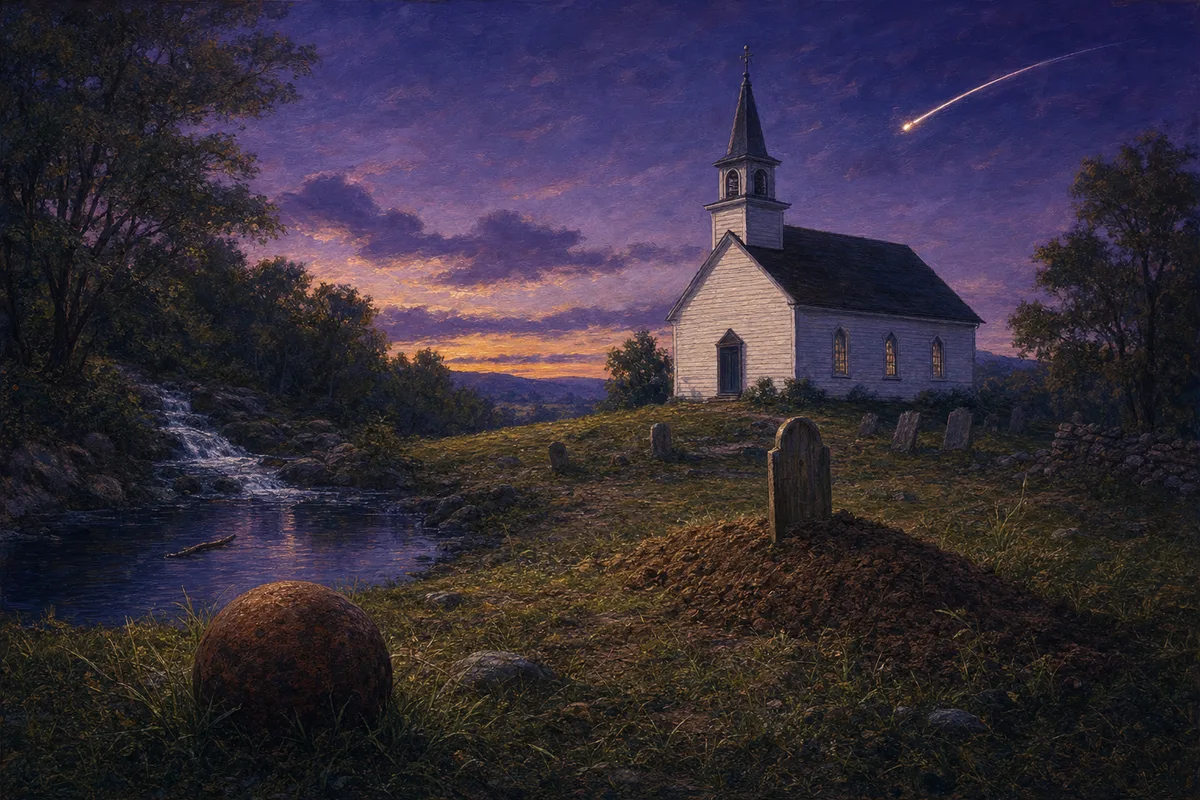
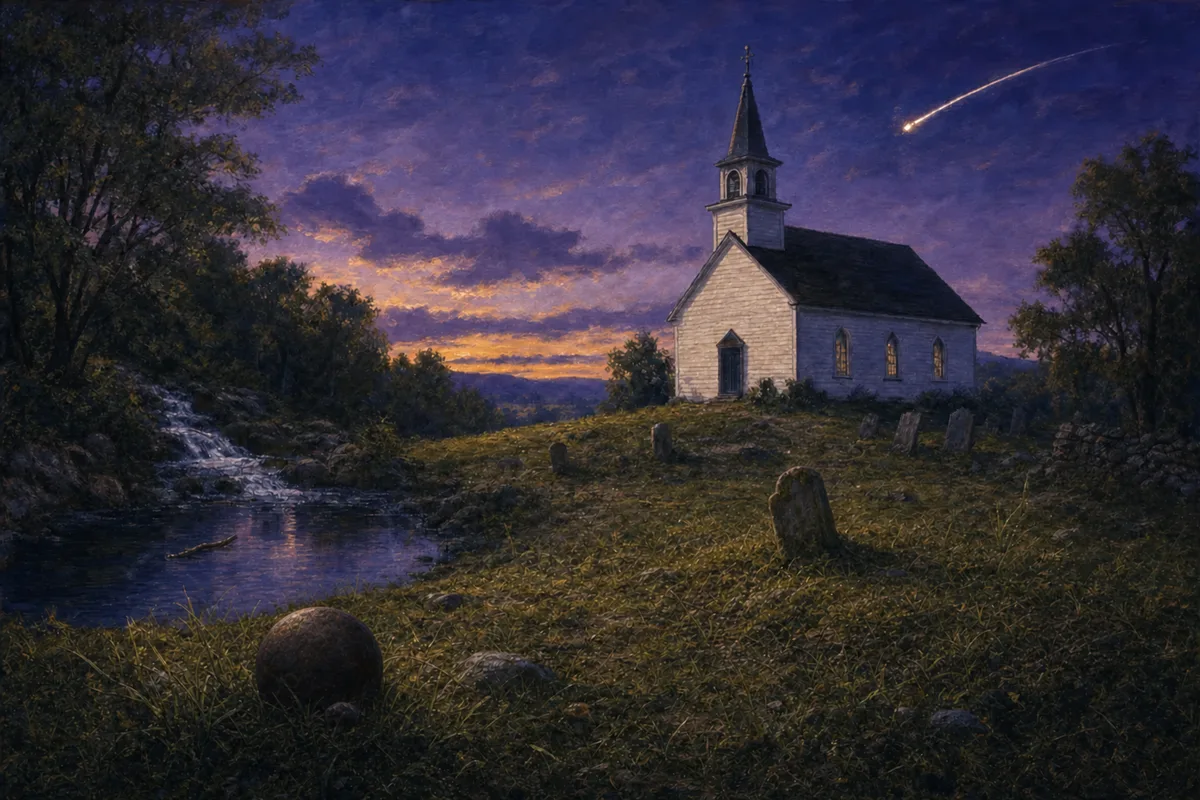
Rooms 1 and 2: review fixes to the code locks, the churchyard and the schoolhouse art
From the teacher's review (2026-11-13):
- Code locks: every dial question rewritten so it shares no content word with its line and needs a step of
  reasoning (e.g. "Which word tells how noisy the shot seemed to the young hunter?"). validate:worlds now rejects a
  dial question that shares a content word or root with its line. The beehive model became "From outside, what busy
  insect home does the classroom resemble?" (its line also holds "sound" and "like").
- Churchyard scene: the still pool (a simile for the villages) is replaced by the church itself, matched to "His
  haunts... especially to the vicinity of a church". Scene objects must be literal things in the story; the
  validator rejects a line that is itself a comparison, and the review doc says so beside every scene.
- The grave is old and sunken with a weathered stone ("An old sunken grave with a weathered stone"); the
  cannonball is a realistic size.
- Schoolhouse art: the windows are partly patched with copybook pages, so the painting has exactly 2 mistakes.
The tests now check the rules against Room 1 as it is in world.json.

diff --git a/tests/escape-room.test.ts b/tests/escape-room.test.ts
@@ -20,31 +20,8 @@ const shp = parseSourcePassages(src("public/worlds/sleepy-hollow/source.md"));
 const e1 = sh.expeditions![0], chunks = expeditionChunks(sh, shp, e1.id), iv = e1.interview!;
 
 // The Expedition 1 puzzles from the approved plan (content for review arrives in phase 2; here they test the rules).
-const E1_ROOM: RoomData = {
-  expedition: e1.id,
-  door: "The Glen. A spell holds everyone who stays here. Prove what the story says, and the way out opens.",
-  puzzles: [
-    { type: "painting", id: "glen-at-noon", after: 3, title: "The glen at noon", alt: "A painting of a quiet valley among hills", wrong: 2, details: [
-      { id: "walnut", label: "Tall walnut trees shade one side", x: 20, y: 40, lines: [{ p: "p004", s: 0 }] },
-      { id: "woodpecker", label: "A woodpecker on a branch", x: 30, y: 30, lines: [{ p: "p003", s: 4 }] },
-      { id: "hills", label: "High hills all around", x: 50, y: 10, lines: [{ p: "p003", s: 3 }] },
-      { id: "waterfall", label: "A roaring waterfall", x: 70, y: 50, wrong: true, lines: [{ p: "p003", s: 4 }] },
-      { id: "market", label: "A busy market road through the valley", x: 60, y: 80, wrong: true, lines: [{ p: "p003", s: 3 }] },
-    ] },
-    { type: "code", id: "glen-gate", after: 5, title: "The gate out of the glen", dials: [
-      { question: "Who named the town?", line: { p: "p003", s: 1 }, word: "housewives" },
-      { question: "How many miles away is the valley?", line: { p: "p003", s: 3 }, word: "two" },
-      { question: "What sound startled him?", line: { p: "p004", s: 1 }, word: "roar" },
-      { question: "What does the witching power hold over people's minds?", line: { p: "p005", s: 3 }, word: "spell" },
-    ] },
-    { type: "scene", id: "churchyard-at-dusk", after: 10, title: "The churchyard at dusk", alt: "A churchyard at dusk beside a stream", objects: [
-      { id: "shot", label: "A rusted iron shot half-buried in the grass", x: 30, y: 80, line: { p: "p006", s: 1 } },
-      { id: "grave", label: "A fresh grave beside the steeple", x: 55, y: 60, line: { p: "p006", s: 3 } },
-      { id: "streak", label: "A streak of light across the night sky", x: 70, y: 10, line: { p: "p005", s: 5 } },
-      { id: "pool", label: "A glassy pool beside a fast creek, a twig drifting in it", x: 15, y: 50, line: { p: "p009", s: 1 } },
-    ], near_misses: [{ p: "p005", s: 1 }, { p: "p006", s: 2 }] },
-  ],
-};
+// Room 1 as revised in review (world.json rooms): the tests check the rules against the real puzzles.
+const E1_ROOM: RoomData = structuredClone(sh.rooms!.find((r) => r.expedition === e1.id)!);
 const withRoom = (room: RoomData, base: WorldPack = sh): WorldPack => ({ ...base, rooms: [room] });
 const world = withRoom(E1_ROOM);
 const puzzle = <T extends "code" | "painting" | "scene">(type: T) => E1_ROOM.puzzles!.find((p) => p.type === type) as Extract<NonNullable<RoomData["puzzles"]>[number], { type: T }>;
@@ -195,6 +172,9 @@ test("validate:worlds: the plan's E1 puzzles pass, and every puzzle rule catches
   assert.match(probs((r) => { (r.puzzles![2] as { objects: { label: string }[] }).objects[0].label = "A rusted cannon-ball in the grass"; }), /shares words with its line/, "the label alone must not give the line away");
   assert.match(probs((r) => { (r.puzzles![2] as { near_misses: { p: string; s: number }[] }).near_misses[0] = { p: "p006", s: 1 }; }), /different sentence/);
   assert.match(probs((r) => { r.door = "The Glen — a spell"; }), /no em dashes/);
+  // Review rules (2026-11-13): a dial question shares no content word with its line; scene objects are literal things.
+  assert.match(probs((r) => { (r.puzzles![1] as { dials: { question: string }[] }).dials[2].question = "What sound startled him?"; }), /dial 3's question shares words with its line/);
+  assert.match(probs((r) => { const sc = r.puzzles![2] as { objects: { label: string; line: { p: string; s: number } }[] }; sc.objects[3] = { ...sc.objects[3], label: "A glassy pool beside a fast creek", line: { p: "p009", s: 1 } }; }), /line is a comparison/, "the nooks of still water are a simile for the villages");
   assert.match(roomProblems({ ...sh, rooms: [{ expedition: "nowhere" }] }, shp).join("\n"), /no expedition/);
 });
 

diff --git a/lib/escape-room.ts b/lib/escape-room.ts
@@ -250,6 +250,9 @@ export function sceneResult(p: Extract<RoomPuzzle, { type: "scene" }>, matches: 
 }
 
 // ---------- Validation (validate:worlds) ----------
+// A sentence whose main statement is a comparison: it opens with "like" or "as if", or says something "is like" or
+// "are like" something else.
+export const isComparison = (line: string) => /^\W*(like|as if|as though)\b/i.test(line) || /^\W*(they|it|he|she|this|these|those|such)\s+(is|are|was|were|seems?|seemed)\s+(like|as if|as though)\b/i.test(line);
 // Rooms name real expeditions, once each. Every puzzle line is a real sentence the student has already read in this
 // room (chunks 1 to `after`), never in a content-noted paragraph or a sentence the story excludes from puzzles.
 // Code lock: the code spells no word in the story, the answer word appears once in its line, and the line holds another
@@ -291,6 +294,10 @@ export function roomProblems(world: WorldPack, passages: SourcePassage[]): strin
           const hits = keys.filter((x) => x === w).length;
           if (hits !== 1) out.push(`${pat}: dial ${k + 1}'s word "${d.word}" appears ${hits} times in its line (exactly once)`);
           if (!keys.some((x) => x !== w && x.charAt(0) === w.charAt(0))) out.push(`${pat}: dial ${k + 1}'s line has no other word starting with "${w.charAt(0)}", so the letter alone could find it`);
+          // The question shares no content word or root with its line (names excepted): a dial needs a step of
+          // reasoning, never word-matching ("Which word tells how noisy the shot seemed?", not "What sound startled him?").
+          const sharedQ = sharedRoots(d.question, [text], names);
+          if (sharedQ.length) out.push(`${pat}: dial ${k + 1}'s question shares words with its line (${sharedQ.join(", ")}); ask it so the student has to reason, not match words`);
         });
       } else if (p.type === "painting") {
         const wrong = p.details.filter((d) => d.wrong).length;
@@ -306,6 +313,10 @@ export function roomProblems(world: WorldPack, passages: SourcePassage[]): strin
           const text = check(o.line, `object ${o.id}`); if (!text) continue;
           const shared = sharedRoots(o.label, [text], names);
           if (shared.length) out.push(`${pat}: object ${o.id}'s label shares words with its line (${shared.join(", ")}); describe what it looks like instead`);
+          // Scene objects must be literal things in the story, never taken from a simile or metaphor. The check below
+          // catches a line that is itself a comparison ("They are like those little nooks..."); a reviewer confirms the
+          // rest (the review doc says so beside every scene).
+          if (isComparison(text)) out.push(`${pat}: object ${o.id}'s line is a comparison, not a real thing in the story; use a literal object`);
         }
         p.near_misses.forEach((l, k) => check(l, `near miss ${k + 1}`));
       }

diff --git a/scripts/room-review.ts b/scripts/room-review.ts
@@ -31,7 +31,7 @@ for (const id of ["sleepy-hollow", "tell-tale-heart", "trifles"]) {
         out.push(`Picture: \`${p.art ?? "sketch until approved"}\` (${p.alt}). ${p.wrong} details are wrong (✗); each is disproved by its line. The right ones (✓) are confirmed by theirs.`, "");
         p.details.forEach((d, k) => out.push(`${k + 1}. ${d.wrong ? "✗" : "✓"} ${d.label} · ${d.lines.map(quote).join(" / ")}`));
       } else {
-        out.push(`Picture: \`${p.art ?? "sketch until approved"}\` (${p.alt}). Each object matches one line; the tray adds near misses.`, "");
+        out.push(`Picture: \`${p.art ?? "sketch until approved"}\` (${p.alt}). Each object matches one line; the tray adds near misses. Every object is a literal thing in the story, never taken from a simile or metaphor.`, "");
         p.objects.forEach((o, k) => out.push(`${k + 1}. ${o.label} → ${quote(o.line)}`));
         p.near_misses.forEach((r) => out.push(`- Near miss in the tray: ${quote(r)}`));
       }

diff --git a/docs/game-content-review.md b/docs/game-content-review.md
@@ -7600,23 +7600,23 @@ Prompt: "Each dial asks about a line in your Case File. Tap the word in the line
 
 Code: H-T-R-S (spells no word in the story). Each dial: the question, the word to tap, and its line.
 
-1. Who named the town? → **housewives** · ¶3 sentence 2: "This name was given, we are told, in former days, by the good housewives of the adjacent country, from the inveterate propensity of their husbands to linger about the village tavern on market days."
-2. How many miles away is the valley? → **two** · ¶3 sentence 4: "Not far from this village, perhaps about two miles, there is a little valley or rather lap of land among high hills, which is one of the quietest places in the whole world."
-3. What sound startled him? → **roar** · ¶4 sentence 2: "I had wandered into it at noontime, when all nature is peculiarly quiet, and was startled by the roar of my own gun, as it broke the Sabbath stillness around and was prolonged and reverberated by the angry echoes."
-4. What does the witching power hold over people's minds? → **spell** · ¶5 sentence 4: "Certain it is, the place still continues under the sway of some witching power, that holds a spell over the minds of the good people, causing them to walk in a continual reverie."
+1. Who was annoyed enough to label the place, according to the tale? → **housewives** · ¶3 sentence 2: "This name was given, we are told, in former days, by the good housewives of the adjacent country, from the inveterate propensity of their husbands to linger about the village tavern on market days."
+2. A traveler sets out from the tavern for the glen. Which number tells how long the trip is? → **two** · ¶3 sentence 4: "Not far from this village, perhaps about two miles, there is a little valley or rather lap of land among high hills, which is one of the quietest places in the whole world."
+3. Which word tells how noisy the shot seemed to the young hunter? → **roar** · ¶4 sentence 2: "I had wandered into it at noontime, when all nature is peculiarly quiet, and was startled by the roar of my own gun, as it broke the Sabbath stillness around and was prolonged and reverberated by the angry echoes."
+4. What has the magic cast on everyone who lives here, so they drift through life half-dreaming? → **spell** · ¶5 sentence 4: "Certain it is, the place still continues under the sway of some witching power, that holds a spell over the minds of the good people, causing them to walk in a continual reverie."
 
 ##### Inspect the Scene: the churchyard at dusk (after lock 10)
 
 Prompt: "Everything here is in the story. Open each object and match it to the line that explains it."
 
-Picture: `/worlds/sleepy-hollow/rooms/churchyard-at-dusk.webp` (A churchyard at dusk beside a stream, with an old church and a darkening sky). Each object matches one line; the tray adds near misses.
+Picture: `/worlds/sleepy-hollow/rooms/churchyard-at-dusk.webp` (A churchyard at dusk beside a stream, with an old church and a darkening sky). Each object matches one line; the tray adds near misses. Every object is a literal thing in the story, never taken from a simile or metaphor.
 
 1. A rusted iron shot half-buried in the grass → ¶6 sentence 2: "It is said by some to be the ghost of a Hessian trooper, whose head had been carried away by a cannon-ball, in some nameless battle during the Revolutionary War, and who is ever and anon seen by the country folk hurrying along in the gloom of night, as if on the wings of the wind."
-2. A fresh grave beside the steeple → ¶6 sentence 4: "Indeed, certain of the most authentic historians of those parts, who have been careful in collecting and collating the floating facts concerning this spectre, allege that the body of the trooper having been buried in the churchyard, the ghost rides forth to the scene of battle in nightly quest of his head, and that the rushing speed with which he sometimes passes along the Hollow, like a midnight blast, is owing to his being belated, and in a hurry to get back to the churchyard before daybreak."
+2. An old sunken grave with a weathered stone → ¶6 sentence 4: "Indeed, certain of the most authentic historians of those parts, who have been careful in collecting and collating the floating facts concerning this spectre, allege that the body of the trooper having been buried in the churchyard, the ghost rides forth to the scene of battle in nightly quest of his head, and that the rushing speed with which he sometimes passes along the Hollow, like a midnight blast, is owing to his being belated, and in a hurry to get back to the churchyard before daybreak."
 3. A streak of light across the night sky → ¶5 sentence 6: "The whole neighborhood abounds with local tales, haunted spots, and twilight superstitions; stars shoot and meteors glare oftener across the valley than in any other part of the country, and the nightmare, with her whole ninefold, seems to make it the favorite scene of her gambols."
-4. A glassy pool beside a fast creek, a twig drifting in it → ¶9 sentence 2: "They are like those little nooks of still water, which border a rapid stream, where we may see the straw and bubble riding quietly at anchor, or slowly revolving in their mimic harbor, undisturbed by the rush of the passing current."
+4. A white meeting house with a steeple on the knoll → ¶6 sentence 3: "His haunts are not confined to the valley, but extend at times to the adjacent roads, and especially to the vicinity of a church at no great distance."
 - Near miss in the tray: ¶5 sentence 2: "A drowsy, dreamy influence seems to hang over the land, and to pervade the very atmosphere."
-- Near miss in the tray: ¶6 sentence 3: "His haunts are not confined to the valley, but extend at times to the adjacent roads, and especially to the vicinity of a church at no great distance."
+- Near miss in the tray: ¶6 sentence 1: "The dominant spirit, however, that haunts this enchanted region, and seems to be commander-in-chief of all the powers of the air, is the apparition of a figure on horseback, without a head."
 
 #### Room 2: The schoolhouse (Expedition: The Schoolmaster)
 
@@ -7640,16 +7640,16 @@ Prompt: "Each dial asks about a line in your Case File. Tap the word in the line
 
 Code: C-L-S-B (spells no word in the story). Each dial: the question, the word to tap, and its line.
 
-1. Which state did Ichabod come from? → **Connecticut** · ¶10 sentence 2: "He was a native of Connecticut, a State which supplies the Union with pioneers for the mind as well as for the forest, and sends forth yearly its legions of frontier woodmen and country schoolmasters."
-2. What was the schoolhouse built of? → **logs** · ¶11 sentence 1: "His schoolhouse was a low building of one large room, rudely constructed of logs; the windows partly glazed, and partly patched with leaves of old copybooks."
-3. What might his feet have served as? → **shovels** · ¶10 sentence 4: "He was tall, but exceedingly lank, with narrow shoulders, long arms and legs, hands that dangled a mile out of his sleeves, feet that might have served for shovels, and his whole frame most loosely hung together."
-4. What busy insect home does the classroom sound like from outside? → **beehive** · ¶11 sentence 4: "From hence the low murmur of his pupils’ voices, conning over their lessons, might be heard in a drowsy summer’s day, like the hum of a beehive; interrupted now and then by the authoritative voice of the master, in the tone of menace or command, or, peradventure, by the appalling sound of the birch, as he urged some tardy loiterer along the flowery path of knowledge."
+1. Which word names the home Ichabod left to come here? → **Connecticut** · ¶10 sentence 2: "He was a native of Connecticut, a State which supplies the Union with pioneers for the mind as well as for the forest, and sends forth yearly its legions of frontier woodmen and country schoolmasters."
+2. If you ran your hand along the outside walls, what would you feel? → **logs** · ¶11 sentence 1: "His schoolhouse was a low building of one large room, rudely constructed of logs; the windows partly glazed, and partly patched with leaves of old copybooks."
+3. Which garden tool is used to joke about how big he is from the ankles down? → **shovels** · ¶10 sentence 4: "He was tall, but exceedingly lank, with narrow shoulders, long arms and legs, hands that dangled a mile out of his sleeves, feet that might have served for shovels, and his whole frame most loosely hung together."
+4. From outside, what busy insect home does the classroom resemble? → **beehive** · ¶11 sentence 4: "From hence the low murmur of his pupils’ voices, conning over their lessons, might be heard in a drowsy summer’s day, like the hum of a beehive; interrupted now and then by the authoritative voice of the master, in the tone of menace or command, or, peradventure, by the appalling sound of the birch, as he urged some tardy loiterer along the flowery path of knowledge."
 
 ##### Inspect the Scene: a farmhouse where Ichabod boards (after lock 10)
 
 Prompt: "Everything here is in the story. Open each object and match it to the line that explains it."
 
-Picture: `/worlds/sleepy-hollow/rooms/farmhouse-room.webp` (A farmhouse kitchen with a hearth, a table and a chair). Each object matches one line; the tray adds near misses.
+Picture: `/worlds/sleepy-hollow/rooms/farmhouse-room.webp` (A farmhouse kitchen with a hearth, a table and a chair). Each object matches one line; the tray adds near misses. Every object is a literal thing in the story, never taken from a simile or metaphor.
 
 1. A small bundle knotted in a cloth by the door → ¶13 sentence 4: "With these he lived successively a week at a time, thus going the rounds of the neighborhood, with all his worldly effects tied up in a cotton handkerchief."
 2. A stack of freshly split logs by the hearth → ¶14 sentence 2: "He assisted the farmers occasionally in the lighter labors of their farms, helped to make hay, mended the fences, took the horses to water, drove the cows from pasture, and cut wood for the winter fire."
